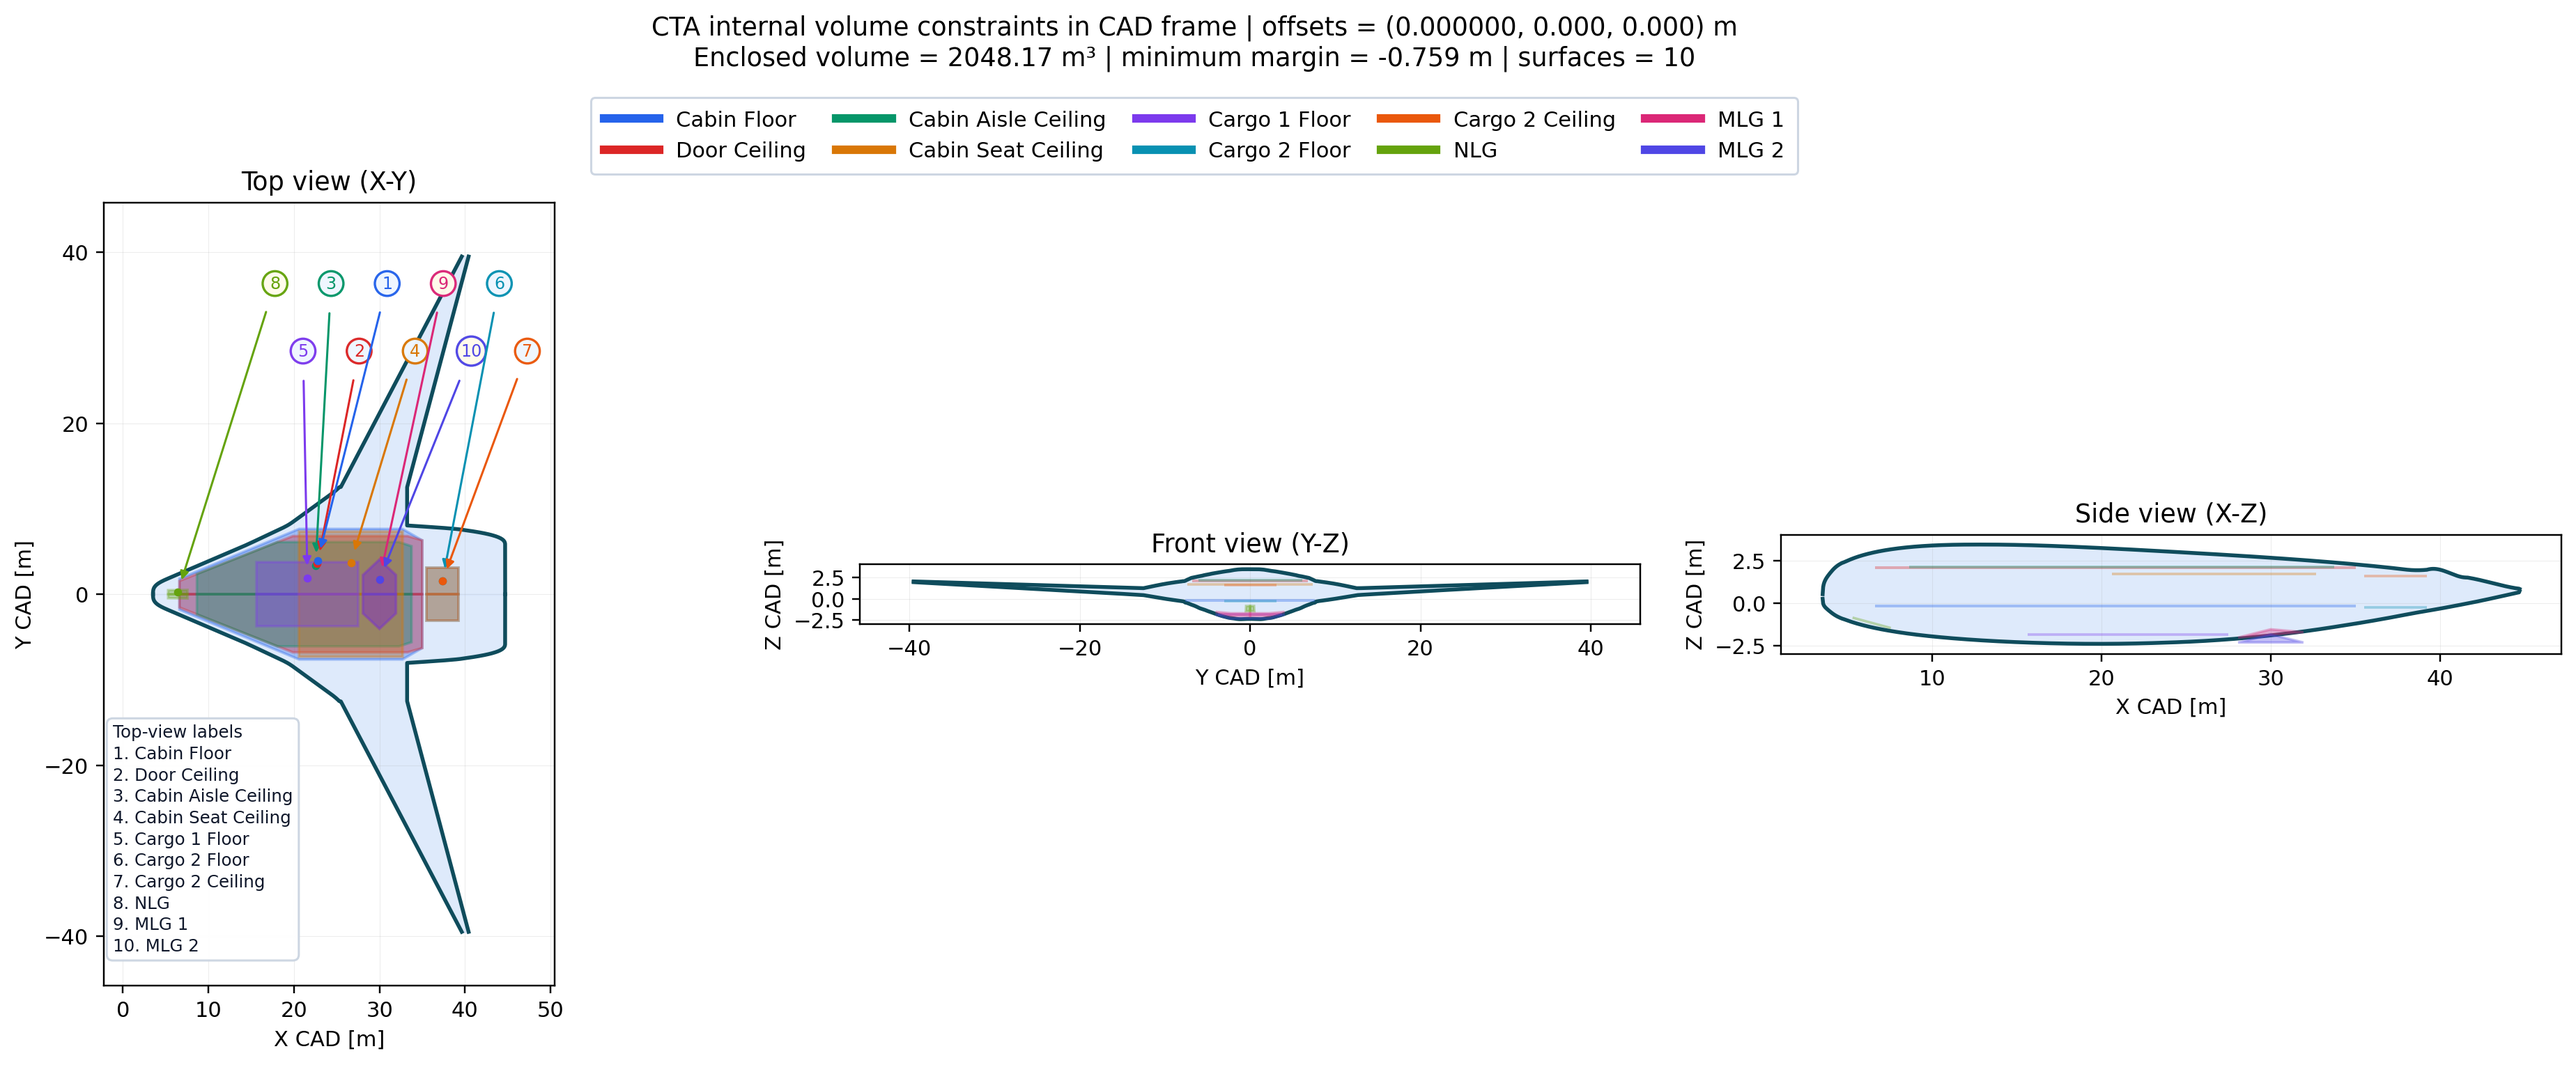
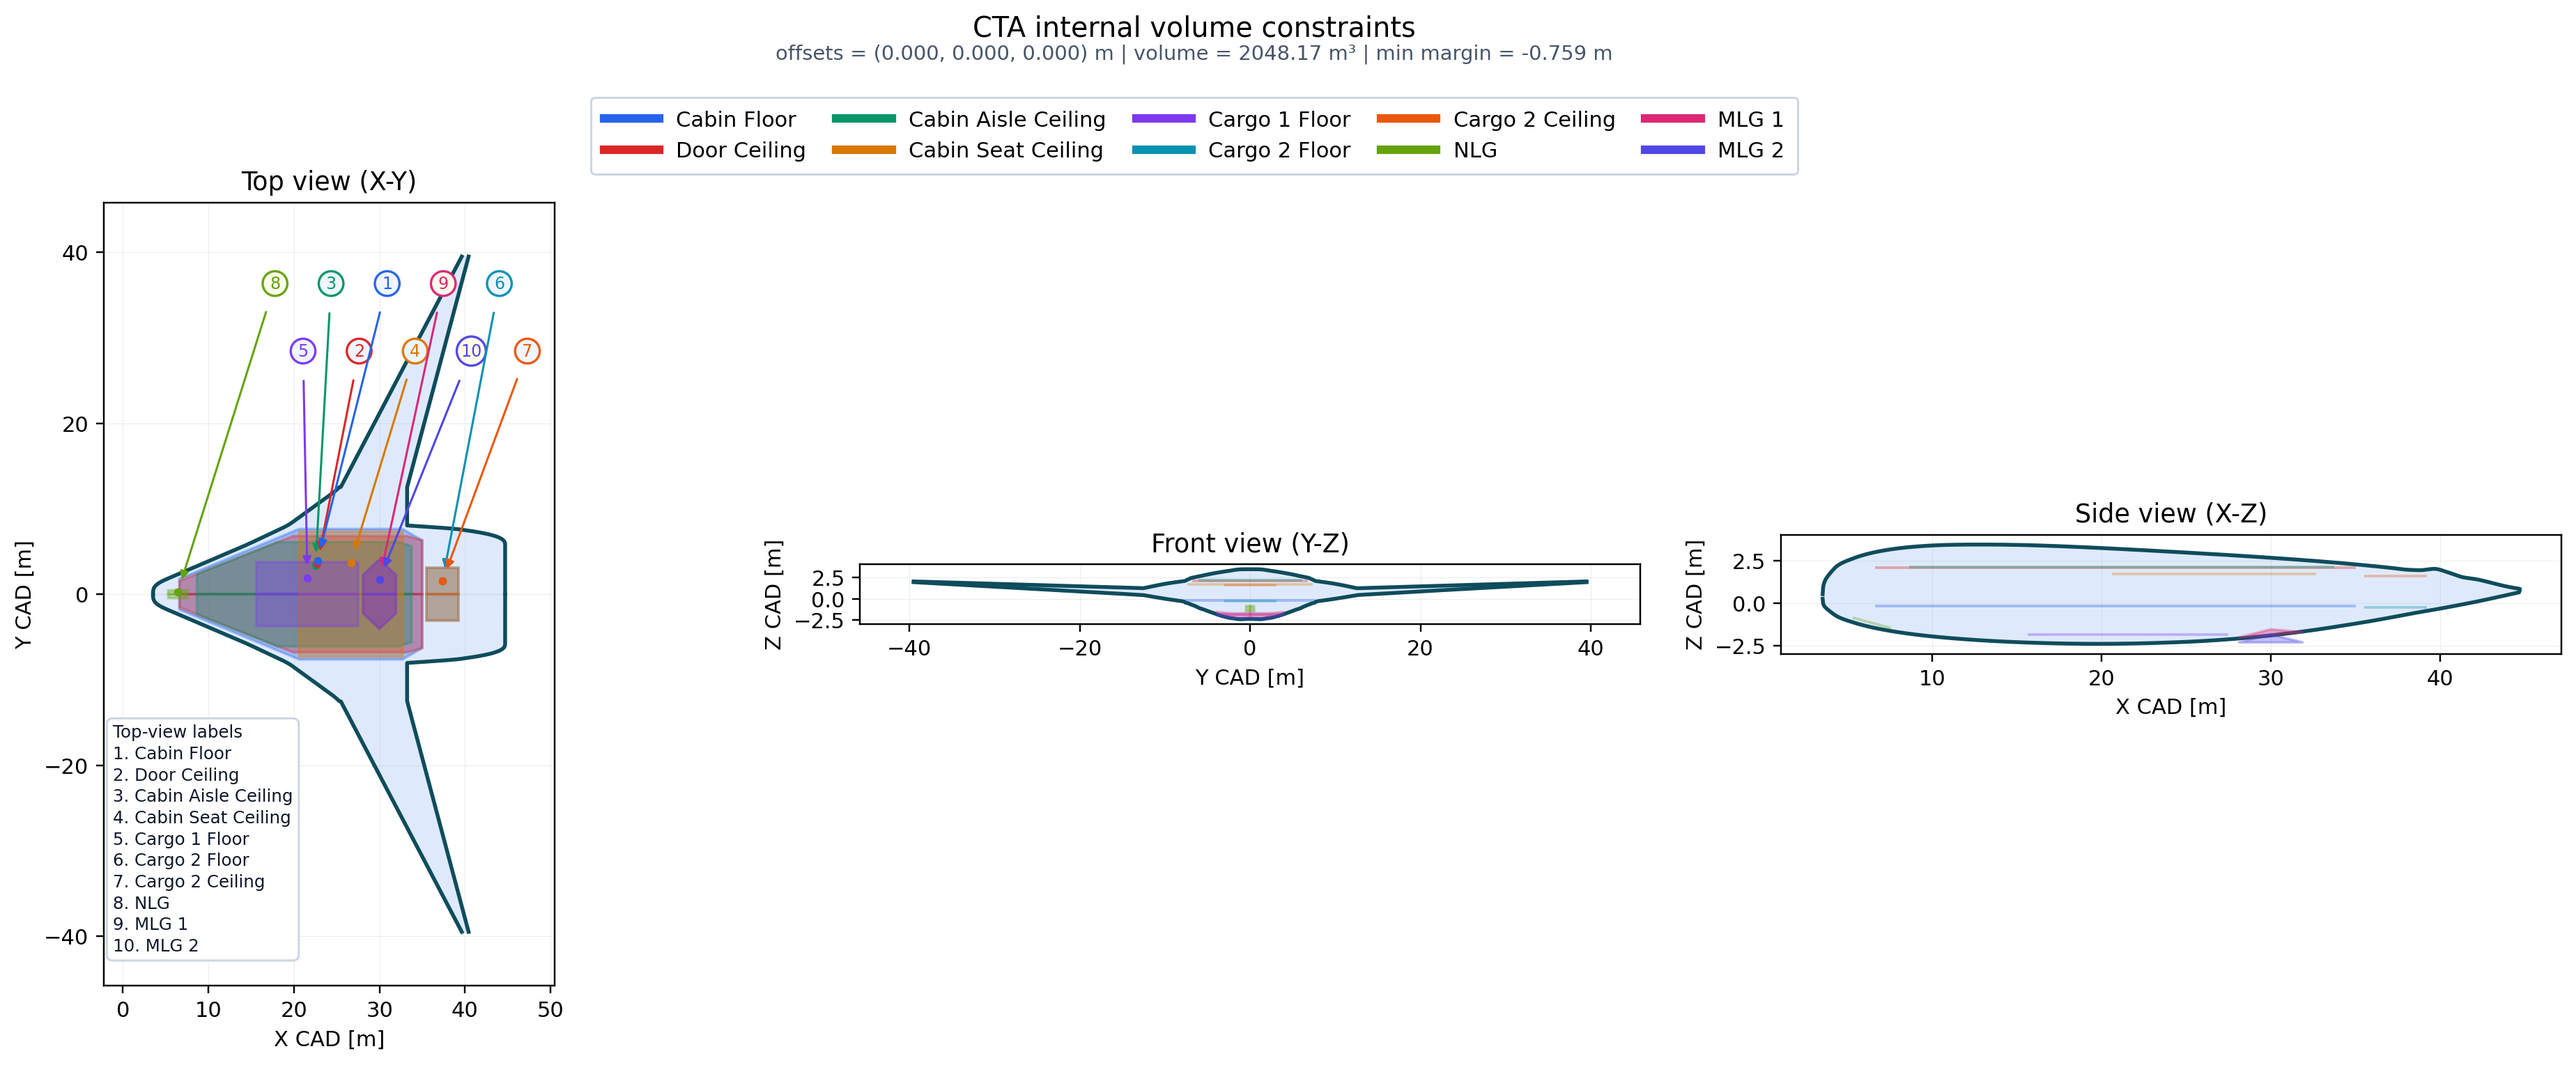
Refine CTA volume constraint docs and plots

Changed region(s): [[0.2489, 0.0, 0.6532, 0.0615]]

diff --git a/parametrization/CTA/codes/plotting/plot_cta_internal_volume_constraints_views.py b/parametrization/CTA/codes/plotting/plot_cta_internal_volume_constraints_views.py
@@ -17,6 +17,7 @@ import matplotlib
 matplotlib.use("Agg")
 import matplotlib.pyplot as plt
 from matplotlib.lines import Line2D
+from scipy.interpolate import PchipInterpolator
 from scipy.signal import savgol_filter
 
 from parametrization.CTA.case import build_cta_design, to_cta_model_config
@@ -127,8 +128,14 @@ def _smooth_side_envelope(z_curve: np.ndarray) -> np.ndarray:
         return z_values
 
     smooth = savgol_filter(segment, window_length=window, polyorder=3, mode="interp")
+    x_local = np.arange(segment.size, dtype=float)
+    n_ctrl = min(55, max(15, segment.size // 28))
+    ctrl_idx = np.unique(np.linspace(0, segment.size - 1, n_ctrl).round().astype(int))
+    if ctrl_idx.size >= 4:
+        smooth = PchipInterpolator(ctrl_idx, smooth[ctrl_idx])(x_local)
+
     blend = np.ones_like(segment, dtype=float)
-    edge = min(20, max(3, segment.size // 10))
+    edge = min(28, max(4, segment.size // 12))
     if edge > 0:
         ramp = np.linspace(0.0, 1.0, edge, dtype=float)
         blend[:edge] = ramp
@@ -376,16 +383,22 @@ def main() -> None:
         for surface in constraint_set.surfaces
     ]
 
-    summary_text = (
-        f"CTA internal volume constraints in CAD frame | "
-        f"offsets = ({CTA_CAD_REFERENCE_FRAME.offset_x_m:.6f}, "
-        f"{CTA_CAD_REFERENCE_FRAME.offset_y_m:.3f}, "
-        f"{CTA_CAD_REFERENCE_FRAME.offset_z_m:.3f}) m\n"
-        f"Enclosed volume = {constraint_result.total_enclosed_volume_m3:.2f} m³ | "
-        f"minimum margin = {constraint_result.minimum_margin_m:.3f} m | "
-        f"surfaces = {len(constraint_result.surface_results)}"
+    fig.suptitle("CTA internal volume constraints", y=0.97, fontsize=13.0)
+    fig.text(
+        0.5,
+        0.935,
+        (
+            f"offsets = ({CTA_CAD_REFERENCE_FRAME.offset_x_m:.3f}, "
+            f"{CTA_CAD_REFERENCE_FRAME.offset_y_m:.3f}, "
+            f"{CTA_CAD_REFERENCE_FRAME.offset_z_m:.3f}) m | "
+            f"volume = {constraint_result.total_enclosed_volume_m3:.2f} m³ | "
+            f"min margin = {constraint_result.minimum_margin_m:.3f} m"
+        ),
+        ha="center",
+        va="center",
+        fontsize=9.5,
+        color="#475569",
     )
-    fig.suptitle(summary_text, y=0.97, fontsize=12.0)
     fig.legend(
         handles=legend_items,
         loc="upper center",

diff --git a/parametrization/CTA/codes/plotting/plot_cta_internal_volume_constraints_3d.py b/parametrization/CTA/codes/plotting/plot_cta_internal_volume_constraints_3d.py
@@ -203,7 +203,7 @@ def main() -> None:
         bbox={"boxstyle": "round,pad=0.40", "facecolor": "#ffffff", "edgecolor": "#cbd5e1", "alpha": 0.96},
     )
 
-    ax.set_title("CTA geometry with internal volume constraints", pad=10.0)
+    ax.set_title("CTA internal volume constraints", pad=10.0)
     ax.set_xlabel("X CAD [m]", labelpad=8.0)
     ax.set_ylabel("Y CAD [m]", labelpad=8.0)
     ax.set_zlabel("Z CAD [m]", labelpad=8.0)

diff --git a/parametrization/CTA/README.md b/parametrization/CTA/README.md
@@ -57,6 +57,38 @@ The idea is:
 - `parametrization/CTA/codes/exports`
   IGES and bounds exports.
 
+## Internal Volume Constraints
+
+The CTA case also carries one explicit set of internal packaging surfaces,
+loaded from:
+
+- `BWB B359-V0 - Internal Volume constraint - Set1 - BWB B359-V0 - Internal Volume constraint - Set1.csv`
+
+These surfaces are evaluated in the CTA CAD reference frame and are used as
+`upper` / `lower` geometric bounds when checking internal packaging.
+
+Defined surfaces:
+
+| Category | Surface | Sense | X range [m] | Y range [m] | Z range [m] | Clearance range [m] |
+| --- | --- | --- | --- | --- | --- | --- |
+| Payload | Cabin Floor | lower | 6.600..35.000 | 0.000..7.640 | -0.184..-0.184 | 0.000..0.000 |
+| Payload | Door Ceiling | upper | 6.600..35.000 | 0.000..6.800 | 2.084..2.084 | 0.000..0.000 |
+| Payload | Cabin Aisle Ceiling | upper | 8.645..33.742 | 0.000..6.100 | 2.159..2.159 | 0.000..0.000 |
+| Payload | Cabin Seat Ceiling | upper | 20.610..32.686 | 0.000..7.336 | 1.714..1.714 | 0.000..0.000 |
+| Payload | Cargo 1 Floor | lower | 15.643..27.498 | 0.000..3.765 | -1.834..-1.834 | 0.000..0.000 |
+| Payload | Cargo 2 Floor | lower | 35.500..39.202 | 0.000..3.065 | -0.259..-0.259 | 0.000..0.000 |
+| Payload | Cargo 2 Ceiling | upper | 35.500..39.202 | 0.000..3.065 | 1.609..1.609 | 0.000..0.000 |
+| LandingGear | NLG | lower | 5.280..7.542 | 0.000..0.500 | -1.471..-0.856 | 0.000..0.000 |
+| LandingGear | MLG 1 | lower | 28.064..31.920 | 0.000..4.050 | -2.035..-1.545 | 0.000..0.000 |
+| LandingGear | MLG 2 | lower | 28.064..31.920 | 0.000..4.050 | -2.322..-1.850 | -0.120..0.000 |
+
+Interpretation:
+
+- `upper` means the CTA geometry must stay at or above that surface.
+- `lower` means the CTA geometry must stay at or below that surface.
+- The table above is the direct definition from the constraint set, before any
+  feasibility check against the current CTA geometry.
+
 ## Step 1: Declare The Canonical Geometry
 
 The first block in the JSON is `canonical_sections`.
